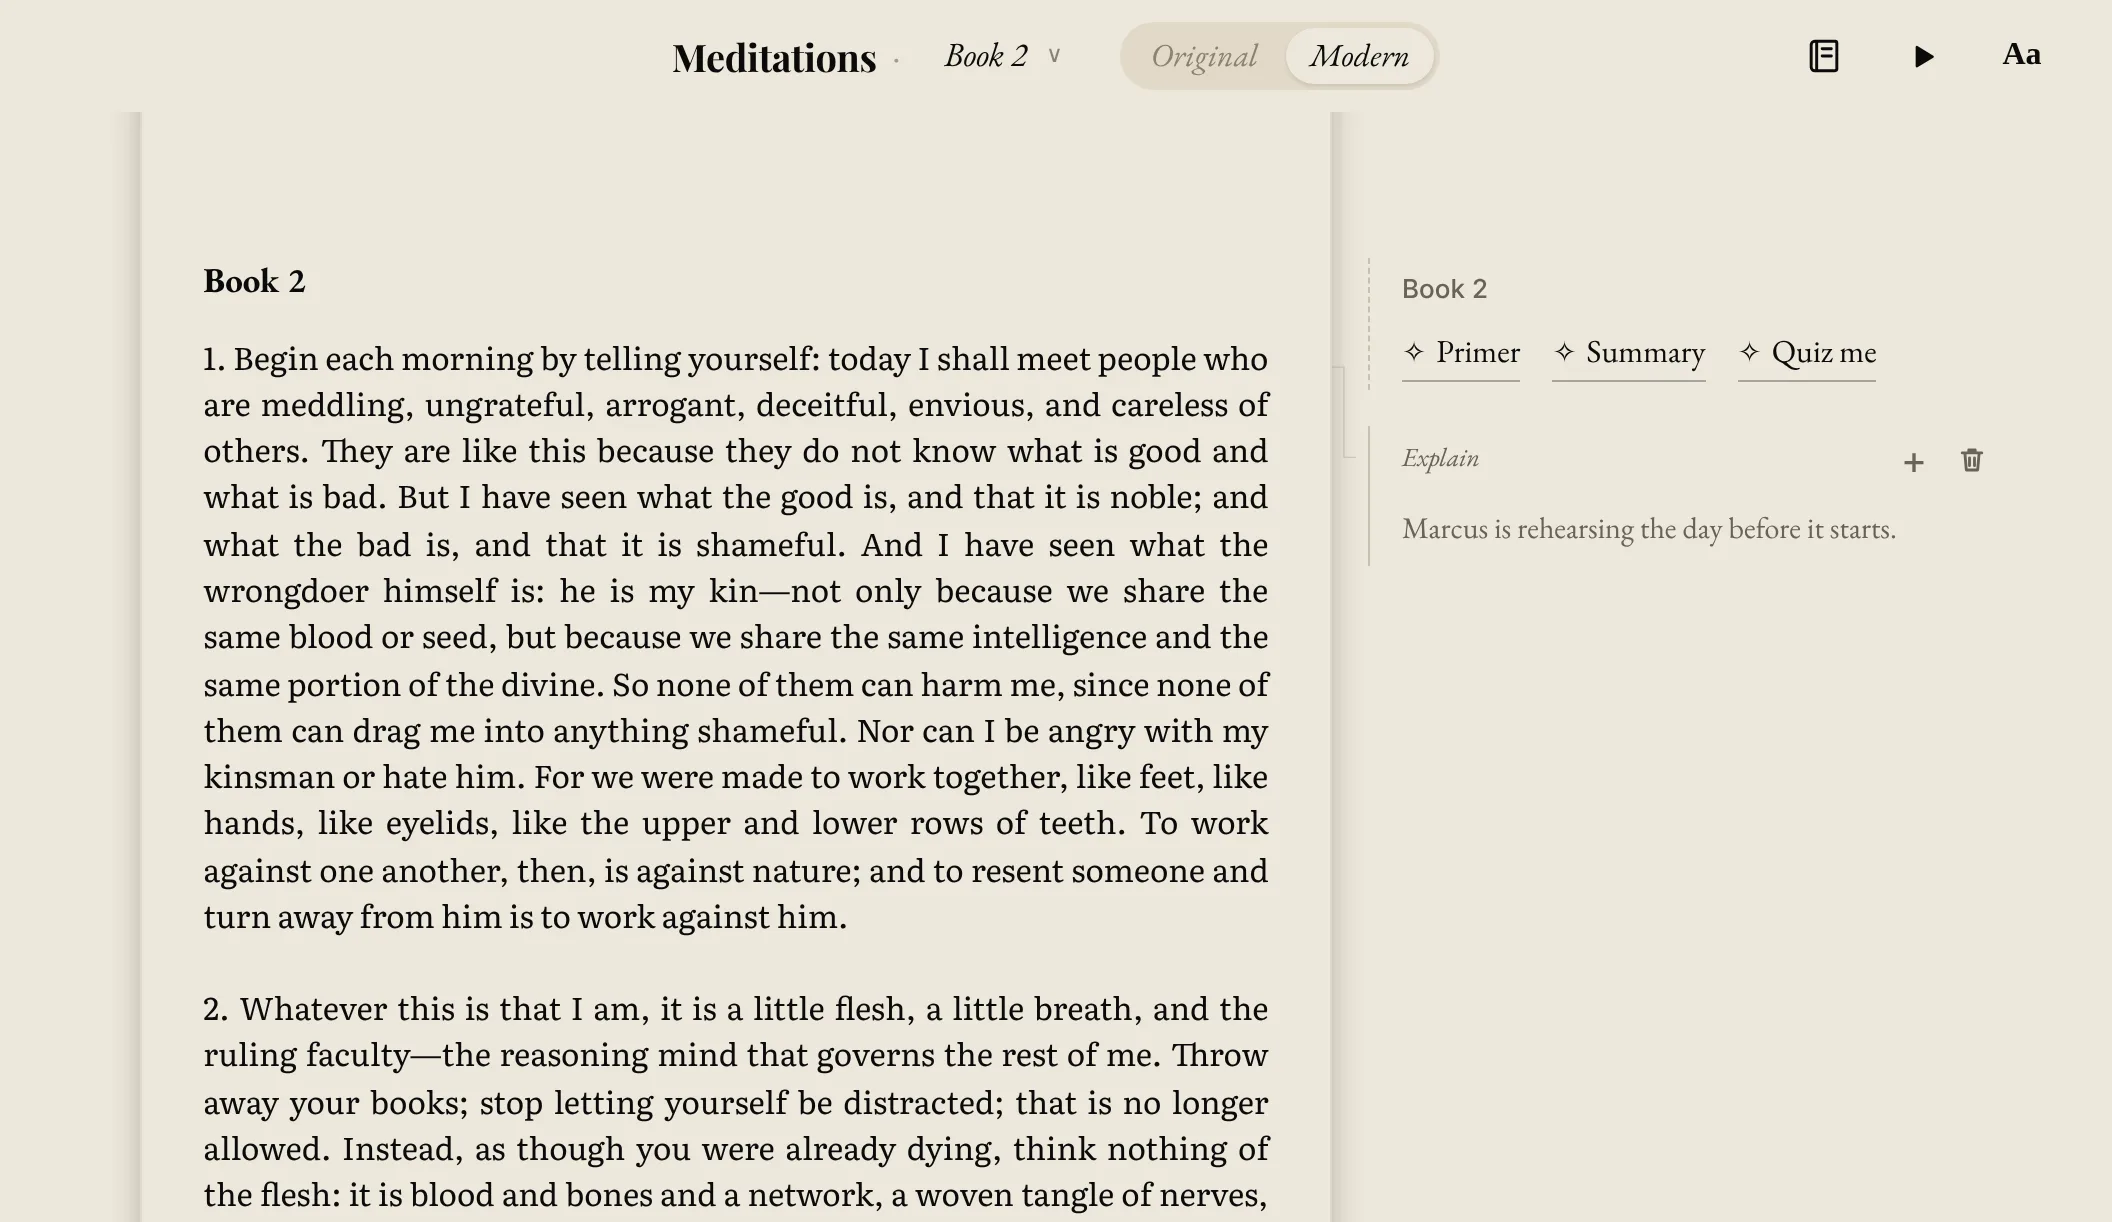
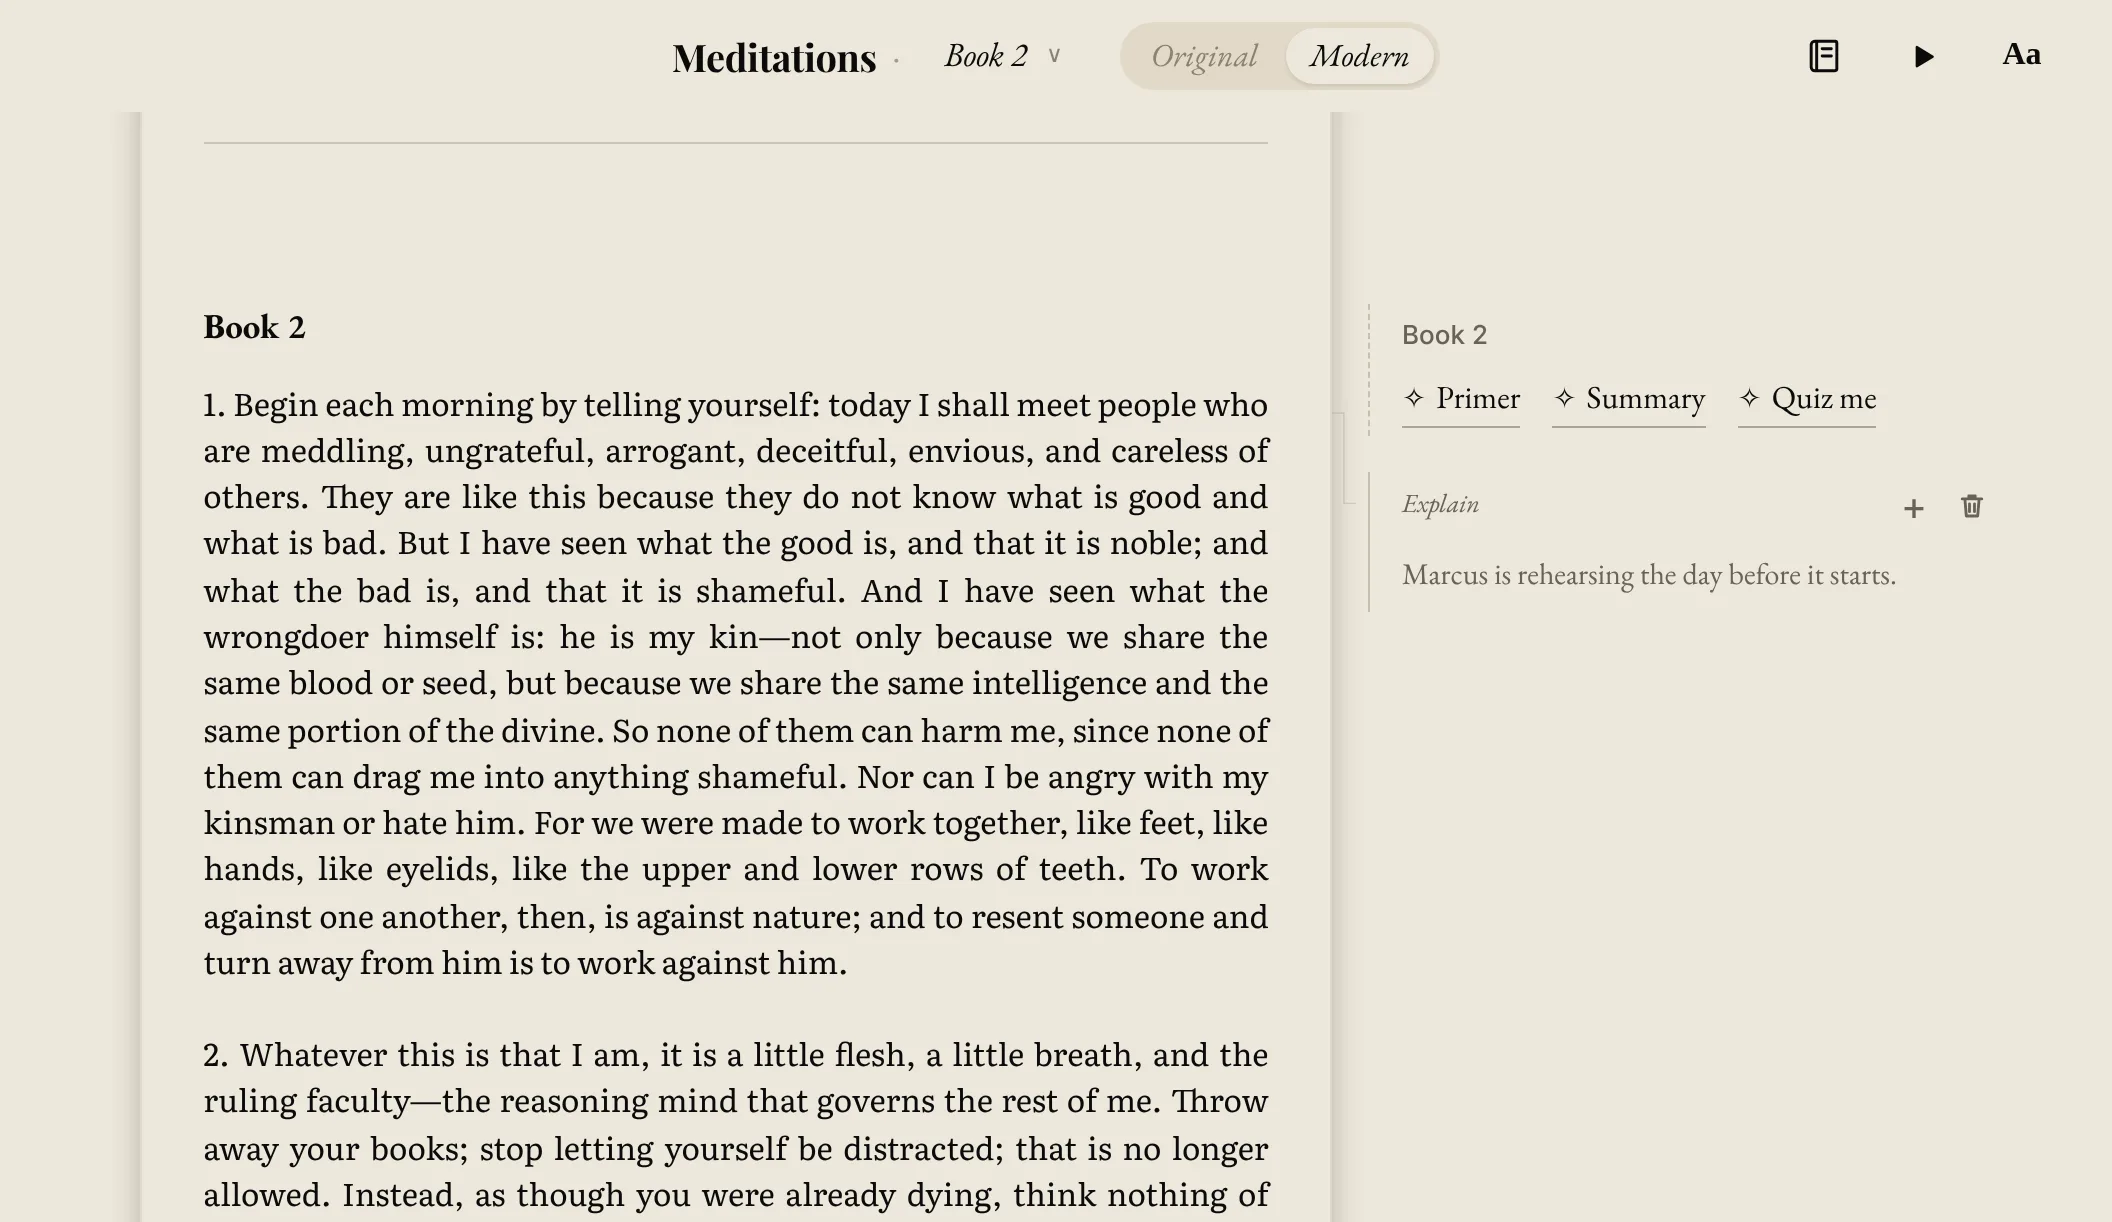
/about frames: the heading holds still from Listen to Modern
Anders, 19 Nov: on desktop Book 2 jumped up when the page turned to modern
English. The capture now notes where the heading sits in the last Listen frame
and scrolls the reader back to it after the switch. Desktop frames re-captured;
frame URLs carry a version so browsers fetch the new ones.

Claude-Session: https://claude.ai/code/session_01MT1m8mq3NtYNBEbe7tz8nU

diff --git a/app/public/about.html b/app/public/about.html
@@ -22,9 +22,9 @@
 <link rel="icon" href="/favicon.ico">
 <link rel="stylesheet" href="/fonts/tinct-fonts.css">
 <link rel="stylesheet" href="/lab/tinct-ui.css?v=20261009rel10">
-<link rel="stylesheet" href="/lab/try/try.css?v=20261119steps">
+<link rel="stylesheet" href="/lab/try/try.css?v=20261119wave">
 <script type="module" src="/lab/internal-traffic.js"></script>
-<script src="/lab/try/try.js?v=20261119steps" defer></script>
+<script src="/lab/try/try.js?v=20261119wave" defer></script>
 </head>
 <body class="try">
 <div class="try-backdrop" aria-hidden="true"></div>
@@ -66,7 +66,7 @@
     <div class="try-show">
       <!-- Frames of the real reader (scripts/capture-try-frames.cjs), Meditations Book 2. The first is in the page; try.js adds the rest. -->
       <a class="try-demo" href="/reader?book=meditations&amp;chapter=2" data-try-demo aria-label="Meditations, Book 2: open it in the reader">
-        <picture class="is-on"><source media="(max-width: 899px)" srcset="/lab/try/frames/phone-01.webp"><img src="/lab/try/frames/desktop-01.webp" alt="" width="2112" height="1222" fetchpriority="high"></picture>
+        <picture class="is-on"><source media="(max-width: 899px)" srcset="/lab/try/frames/phone-01.webp?v=20261119b"><img src="/lab/try/frames/desktop-01.webp?v=20261119b" alt="" width="2112" height="1222" fetchpriority="high"></picture>
         <span class="try-demo-open" aria-hidden="true">Open it in the reader</span>
       </a>
       <a class="try-phone-more" href="#pricing">Pricing · Questions <span aria-hidden="true">↓</span></a>

diff --git a/app/public/lab/try/try.js b/app/public/lab/try/try.js
@@ -22,6 +22,8 @@
     ['08', 2, 3200],
     ['10', 3, 3600],
   ]
+  // Bump when the frames are re-captured, so browsers fetch the new ones.
+  var FRAMES_V = '20261119b'
   var reduce = window.matchMedia('(prefers-reduced-motion: reduce)').matches
 
   var $ = function (selector, root) { return (root || document).querySelector(selector) }
@@ -35,8 +37,8 @@
   var pictures = [first]
   FRAMES.slice(1).forEach(function (frame) {
     var picture = document.createElement('picture')
-    picture.innerHTML = '<source media="(max-width: 899px)" srcset="/lab/try/frames/phone-' + frame[0] + '.webp">' +
-      '<img src="/lab/try/frames/desktop-' + frame[0] + '.webp" alt="" width="2112" height="1222" loading="lazy" decoding="async">'
+    picture.innerHTML = '<source media="(max-width: 899px)" srcset="/lab/try/frames/phone-' + frame[0] + '.webp?v=' + FRAMES_V + '">' +
+      '<img src="/lab/try/frames/desktop-' + frame[0] + '.webp?v=' + FRAMES_V + '" alt="" width="2112" height="1222" loading="lazy" decoding="async">'
     demo.insertBefore(picture, $('.try-demo-open', demo))
     pictures.push(picture)
   })
